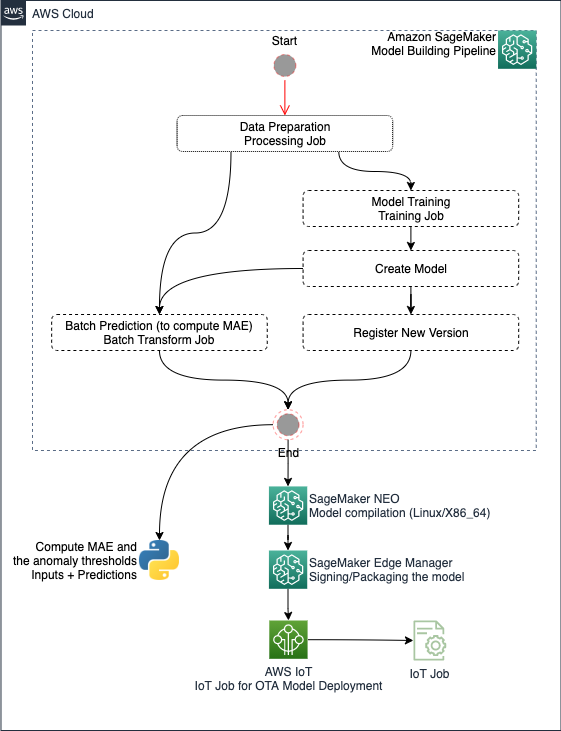
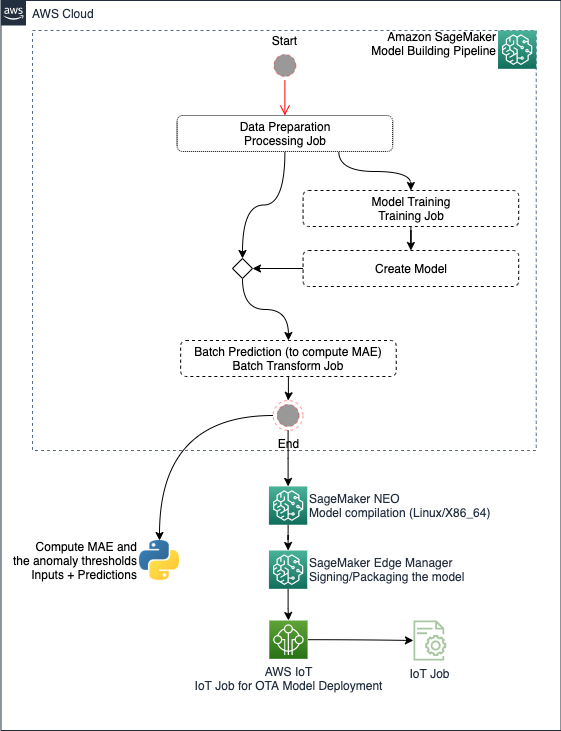
- removed the custom python docker container

diff --git a/lab/preprocessing.py b/lab/preprocessing.py
@@ -1,5 +1,10 @@
 # Copyright Amazon.com, Inc. or its affiliates. All Rights Reserved.
 # SPDX-License-Identifier: MIT-0
+import sys
+import subprocess
+# we need a special package for cleaning our data, lets pip install it first
+subprocess.check_call([sys.executable, "-m", "pip", "install", "pywavelets==1.1.1"])
+
 import argparse
 import os
 import warnings
@@ -71,7 +76,7 @@ if __name__=='__main__':
     args, _ = parser.parse_known_args()
 
     print('Received arguments {}'.format(args))
-    
+
     INTERVAL = args.interval # seconds
     TIME_STEPS = args.time_steps * INTERVAL # Xms -> seg: Xms * Y
     STEP = args.step
